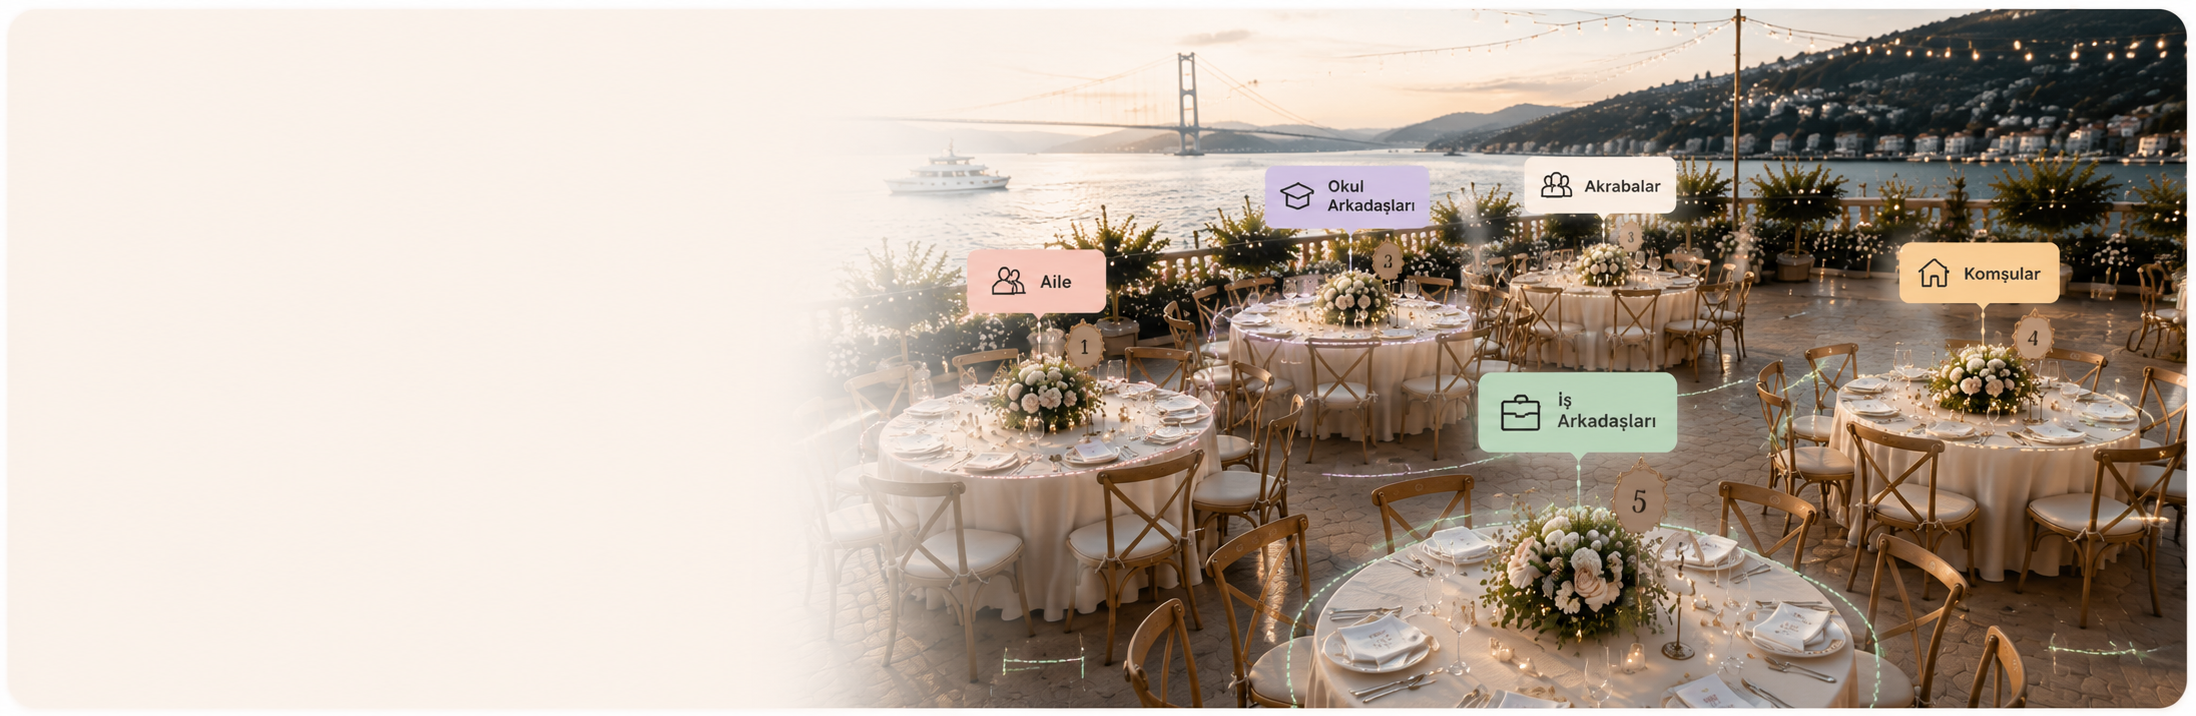
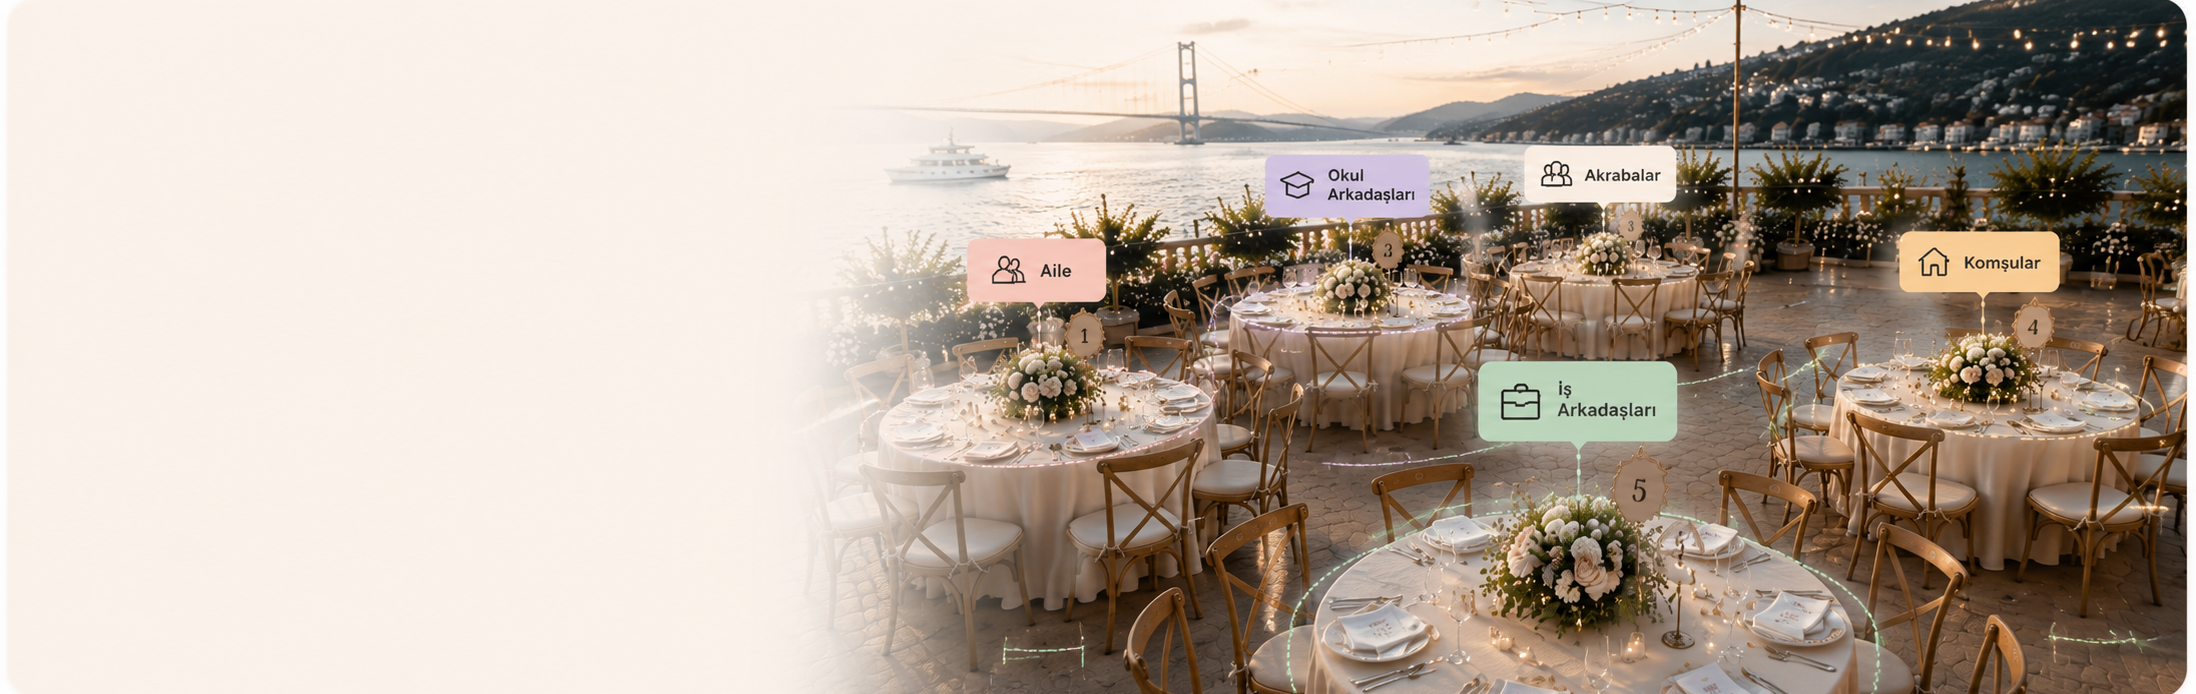
Masa gorseli beyaz kenar temizligi + mobil daha az kirpma, modal store butonlari asagi+buyuk, Neden Nikahim "Altin Gonderimi"
- Masa masaustu: ust/alt beyaz cizgiler kirpildi (2196x694); mobil: 100px kirpma (852x1746) + metin yukari -> 3. icon sahneye tasmiyor
- Modal: CTA+store butonlari asagi kaydi ve buyudu (h-54)
- Neden Nikahim 2. kart basligi "Altin Gonderimi"

diff --git a/app/page.tsx b/app/page.tsx
@@ -586,7 +586,7 @@ export default function Home() {
             </div>
 
             {/* 3 feature — kompakt */}
-            <div className="grid grid-cols-3 gap-3 mb-5">
+            <div className="grid grid-cols-3 gap-3 mb-8">
               {[
                 { title: 'Davetiyeni Oluştur', icon: (
                   <svg className="w-6 h-6" style={{ color: '#C8686E' }} fill="none" stroke="currentColor" strokeWidth="1.6" strokeLinecap="round" strokeLinejoin="round" viewBox="0 0 24 24">
@@ -610,8 +610,8 @@ export default function Home() {
             </div>
 
             {/* Ücretsiz İndirin, Hemen Başlayın! */}
-            <div className="text-center mb-3">
-              <p className="text-[12.5px] tracking-[0.2px]">
+            <div className="text-center mb-4">
+              <p className="text-[13px] tracking-[0.2px]">
                 <span style={{ color: '#9F4F58', fontWeight: 600 }}>Ücretsiz İndirin,</span>
                 <span style={{ color: '#6E5A5A' }}> Hemen Başlayın!</span>
               </p>
@@ -619,8 +619,8 @@ export default function Home() {
 
             {/* App Store + Google Play yan yana */}
             <div className="flex gap-2.5 justify-center">
-              <a href="#" className="block transition-transform hover:scale-[1.03]"><Image src="/appstore.png" alt="App Store" width={200} height={60} className="h-12 w-auto" /></a>
-              <a href="#" className="block transition-transform hover:scale-[1.03]"><Image src="/playstore.png" alt="Google Play" width={200} height={60} className="h-12 w-auto" /></a>
+              <a href="#" className="block transition-transform hover:scale-[1.03]"><Image src="/appstore.png" alt="App Store" width={220} height={66} className="h-[54px] w-auto" /></a>
+              <a href="#" className="block transition-transform hover:scale-[1.03]"><Image src="/playstore.png" alt="Google Play" width={220} height={66} className="h-[54px] w-auto" /></a>
             </div>
           </div>
         </div>
@@ -1344,11 +1344,11 @@ export default function Home() {
           </div>
 
           {/* Akıllı Masa Planlayıcısı — en son kart (mobil dikey dikdörtgen) */}
-          <div className="feature-card-hover relative rounded-[28px] overflow-hidden mx-auto w-full aspect-[852/1596] lg:aspect-[3/1] max-w-[440px] lg:max-w-none" style={{ boxShadow: '0 18px 50px rgba(72,47,42,0.055), 0 2px 8px rgba(72,47,42,0.025)', border: '1px solid rgba(174,112,108,0.13)' }}>
+          <div className="feature-card-hover relative rounded-[28px] overflow-hidden mx-auto w-full aspect-[852/1746] lg:aspect-[3/1] max-w-[440px] lg:max-w-none" style={{ boxShadow: '0 18px 50px rgba(72,47,42,0.055), 0 2px 8px rgba(72,47,42,0.025)', border: '1px solid rgba(174,112,108,0.13)' }}>
             <img src="/masa-plani-mobil.png" alt="" className="lg:hidden absolute inset-0 w-full h-full object-cover pointer-events-none select-none" />
             <img src="/masa-plani-masaustu.png" alt="Akıllı masa planlayıcısı" className="hidden lg:block absolute inset-0 w-full h-full object-cover pointer-events-none select-none" />
             {/* Mobil — metin üstte (krem alan) */}
-            <div className="lg:hidden absolute" style={{ top: '2.5%', left: '6%', right: '6%' }}>
+            <div className="lg:hidden absolute" style={{ top: '2%', left: '6%', right: '6%' }}>
               <div className="mb-3"><FeatureBadge label="AKILLI MASA PLANLAYICISI" /></div>
               <h3 className="leading-[1.06]" style={{ fontFamily: 'var(--font-playfair)', color: '#C8686E', fontWeight: 600, fontSize: 'clamp(22px, 5.6vw, 44px)' }}>Masa düzeniniz,</h3>
               <h3 className="leading-[1.1] mt-1" style={{ fontFamily: 'var(--font-playfair)', color: '#1F1F1F', fontWeight: 600, fontSize: 'clamp(18px, 4.4vw, 34px)' }}>zahmetsizce hazır.</h3>
@@ -1475,7 +1475,7 @@ export default function Home() {
           <div className="grid md:grid-cols-2 lg:grid-cols-3 gap-6 md:gap-7">
             {[
               { title: 'Canlı Yayın', desc: 'Düğününüzü size özel sayfanızdan canlı yayınlayın. Davetlileriniz uygulama indirmeden, tek tıkla yayına katılsın. Kaçıranlar için yayın kaydı 30 gün boyunca sayfanızda izlenebilir.', badges: ['Özel Yayın Sayfası', 'Tek Tıkla Katılım', 'Full HD'], icon: <svg className="w-6 h-6" fill="none" stroke="currentColor" viewBox="0 0 24 24"><path strokeLinecap="round" strokeLinejoin="round" strokeWidth={1.8} d="M15 10l4.553-2.276A1 1 0 0121 8.618v6.764a1 1 0 01-1.447.894L15 14M5 18h8a2 2 0 002-2V8a2 2 0 00-2-2H5a2 2 0 00-2 2v8a2 2 0 002 2z" /></svg> },
-              { title: 'Altın Karşılığı TL Gönderimi', desc: 'Davetlileriniz seçtikleri altının TL karşılığını doğrudan hesabınıza göndersin. Uzakta olan misafirleriniz de size dijital altın takmış olsun.', badges: ['Doğrudan Hesabınıza', 'Aracısız', 'Komisyonsuz'], icon: <svg className="w-6 h-6" fill="none" stroke="currentColor" viewBox="0 0 24 24"><path strokeLinecap="round" strokeLinejoin="round" strokeWidth={1.8} d="M4 10h16M5 10L12 4l7 6M6 10v8M10 10v8M14 10v8M18 10v8M4 21h16" /></svg> },
+              { title: 'Altın Gönderimi', desc: 'Davetlileriniz seçtikleri altının TL karşılığını doğrudan hesabınıza göndersin. Uzakta olan misafirleriniz de size dijital altın takmış olsun.', badges: ['Doğrudan Hesabınıza', 'Aracısız', 'Komisyonsuz'], icon: <svg className="w-6 h-6" fill="none" stroke="currentColor" viewBox="0 0 24 24"><path strokeLinecap="round" strokeLinejoin="round" strokeWidth={1.8} d="M4 10h16M5 10L12 4l7 6M6 10v8M10 10v8M14 10v8M18 10v8M4 21h16" /></svg> },
               { title: 'Tebrik Mesajları', desc: 'Davetlileriniz 3 farklı şekilde size tebriklerini iletsin. Tüm güzel dilekleriniz tek yerde biriksin.', badges: ['Videolu', 'Sesli', 'Yazılı'], dualIcon: true, icon: <svg className="w-6 h-6" fill="none" stroke="currentColor" viewBox="0 0 24 24"><path strokeLinecap="round" strokeLinejoin="round" strokeWidth={1.8} d="M15 10l4.553-2.276A1 1 0 0121 8.618v6.764a1 1 0 01-1.447.894L15 14M5 18h8a2 2 0 002-2V8a2 2 0 00-2-2H5a2 2 0 00-2 2v8a2 2 0 002 2z" /></svg>, icon2: <svg className="w-6 h-6" fill="none" stroke="currentColor" viewBox="0 0 24 24"><path strokeLinecap="round" strokeLinejoin="round" strokeWidth={1.8} d="M19 11a7 7 0 01-7 7m0 0a7 7 0 01-7-7m7 7v4m0 0H8m4 0h4m-4-8a3 3 0 01-3-3V5a3 3 0 116 0v6a3 3 0 01-3 3z" /></svg>, icon3: <svg className="w-6 h-6" fill="none" stroke="currentColor" viewBox="0 0 24 24"><path strokeLinecap="round" strokeLinejoin="round" strokeWidth={1.8} d="M12 20h9M16.5 3.5a2.12 2.12 0 013 3L7 19l-4 1 1-4 12.5-12.5z" /></svg> },
               { title: 'Ortak Fotoğraf Albümü', desc: 'Siz ve davetlileriniz düğünde çektiğiniz fotoğrafları yükleyin. Tüm anılarınız tek albümde bir araya gelsin.', badges: ['Birlikte Yükleyin', 'Tek Albüm', 'Çift Onayı'], icon: <svg className="w-6 h-6" fill="none" stroke="currentColor" viewBox="0 0 24 24"><path strokeLinecap="round" strokeLinejoin="round" strokeWidth={1.8} d="M4 16l4.586-4.586a2 2 0 012.828 0L16 16m-2-2l1.586-1.586a2 2 0 012.828 0L20 14m-6-6h.01M6 20h12a2 2 0 002-2V6a2 2 0 00-2-2H6a2 2 0 00-2 2v12a2 2 0 002 2z" /></svg> },
               { title: 'Fotoğraf Baskısı', desc: 'İster siz ister davetlileriniz, dilediğiniz fotoğrafları baskı için seçin. Seçilen kareler fotoğrafçınızın paneline ulaşsın.', badges: ['Albümden Seçin', 'Kolay Baskı', 'Fotoğrafçı Paneli'], icon: <svg className="w-6 h-6" fill="none" stroke="currentColor" viewBox="0 0 24 24"><path strokeLinecap="round" strokeLinejoin="round" strokeWidth={1.8} d="M6 9V3h12v6M6 18H5a2 2 0 01-2-2v-3a2 2 0 012-2h14a2 2 0 012 2v3a2 2 0 01-2 2h-1M6 14h12v7H6z" /></svg> },
